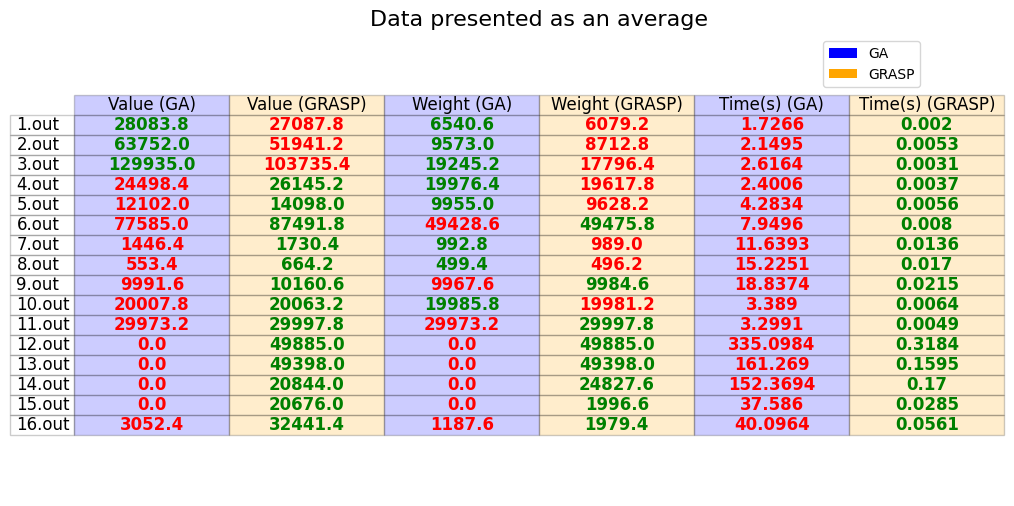
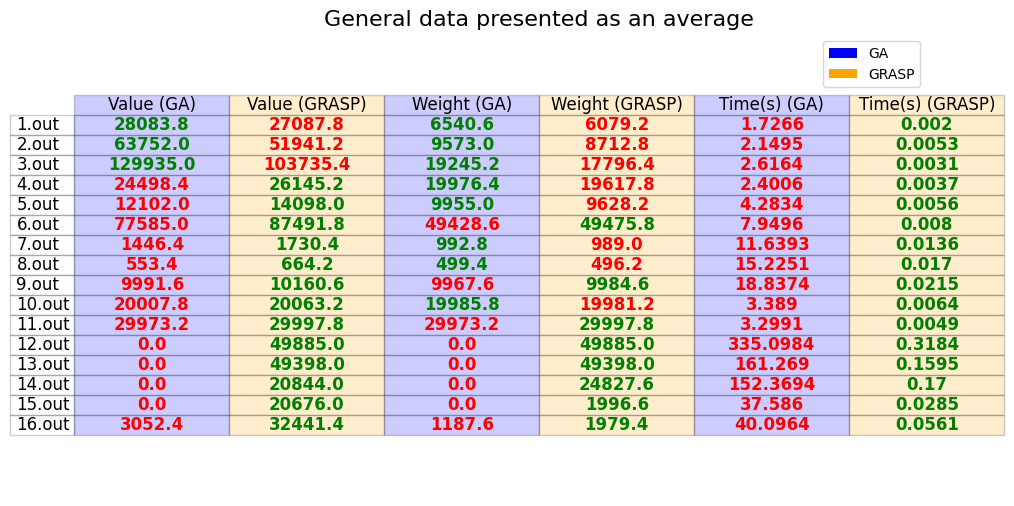
report - grafico weight x value

Changed region(s): [[0.3057, 0.0, 0.7643, 0.0593]]

diff --git a/report/main.py b/report/main.py
@@ -86,9 +86,51 @@ def generate_value_x_execution_time_graph(vet_file_names, vet_value_ga, vet_valu
     lines, labels = ax1.get_legend_handles_labels()
     lines2, labels2 = ax2.get_legend_handles_labels()
     ax1.legend(lines + lines2, labels + labels2, loc='upper left')
+    
+    plt.title("Value mean x Execution time(s) mean", fontsize=16)
 
     plt.tight_layout()
     plt.savefig('graph_value_x_time.png', bbox_inches='tight', pad_inches=0.1, transparent=True)
+    plt.show()
+
+def generate_weight_value_graph(vet_file_names, vet_weight_ga, vet_weight_std_ga, vet_weight_grasp, vet_weight_std_grasp, 
+                                          vet_value_ga, vet_value_grasp):
+    fig, ax1 = plt.subplots(figsize=(10, 6))
+
+    ga_bar_color = 'blue'
+    grasp_bar_color = 'orange'
+    ga_line_color = 'red'
+    grasp_line_color = 'green'
+
+    # splitting the bars
+    width = 0.35
+    x = np.arange(len(vet_file_names))
+    x1 = x - width/2
+    x2 = x + width/2
+
+    # bar graph for weights
+    ax1.bar(x1, vet_weight_ga, width=width, label='Weight mean - GA', alpha=0.7, color=ga_bar_color, yerr=vet_weight_std_ga, capsize=5)
+    ax1.bar(x2, vet_weight_grasp, width=width, label='Weight mean - GRASP', alpha=0.7, color=grasp_bar_color, yerr=vet_weight_std_grasp, capsize=5)
+
+    ax1.set_xlabel('Files')
+    ax1.set_ylabel('Weight mean')
+    ax1.set_xticks(x)
+    ax1.set_xticklabels(vet_file_names, rotation=90)
+
+    ax2 = ax1.twinx()
+    ax2.plot(x1, vet_value_ga, label='Value mean - GA', marker='o', linestyle='--', color=f'tab:{ga_line_color}')
+    ax2.plot(x2, vet_value_grasp, label='Value mean - GRASP', marker='o', linestyle='--', color=f'tab:{grasp_line_color}')
+    ax2.set_ylabel('Value mean')
+
+    # legends
+    lines, labels = ax1.get_legend_handles_labels()
+    lines2, labels2 = ax2.get_legend_handles_labels()
+    ax1.legend(lines + lines2, labels + labels2, loc='upper left')
+    
+    plt.title("Weight mean x Value mean", fontsize=16)
+
+    plt.tight_layout()
+    plt.savefig('graph_weight_x_value.png', bbox_inches='tight', pad_inches=0.1, transparent=True)
     plt.show()
 
 def generate_datatable(vet_file_names, vet_value_ga, vet_weight_ga, vet_execution_time_ga,
@@ -160,7 +202,7 @@ def generate_datatable(vet_file_names, vet_value_ga, vet_weight_ga, vet_executio
     table_data.set_fontsize(12)
     table_data.scale(1.2, 1.2)
 
-    plt.title("Data presented as an average", fontsize=16)
+    plt.title("General data presented as an average", fontsize=16)
 
     plt.savefig('dt_general.png', bbox_inches='tight', pad_inches=0.1, transparent=True)
     plt.show()
@@ -171,16 +213,20 @@ def generate_graphs(results_ga, results_grasp):
     vet_value_ga = [result['Value mean'] for result in results_ga]
     vet_value_std_ga = [result['Value std'] for result in results_ga]
     vet_weight_ga = [result['Weight mean'] for result in results_ga]
+    vet_weight_std_ga = [result['Weight std'] for result in results_ga]
     vet_execution_time_ga = [result['Execution time(s) mean'] for result in results_ga]
     vet_remaining_capacity_ga = [result['Remaining capacity mean'] for result in results_ga]
 
     vet_value_grasp = [result['Value mean'] for result in results_grasp]
     vet_value_std_grasp = [result['Value std'] for result in results_grasp]
     vet_weight_grasp = [result['Weight mean'] for result in results_grasp]
+    vet_weight_std_grasp = [result['Weight std'] for result in results_grasp]
     vet_execution_time_grasp = [result['Execution time(s) mean'] for result in results_grasp]
     vet_remaining_capacity_grasp = [result['Remaining capacity mean'] for result in results_grasp]
 
     generate_value_x_execution_time_graph(vet_file_names, vet_value_ga, vet_value_std_ga, vet_value_grasp, vet_value_std_grasp, vet_execution_time_ga, vet_execution_time_grasp)
+    
+    generate_weight_value_graph(vet_file_names, vet_weight_ga, vet_weight_std_ga, vet_weight_grasp, vet_weight_std_grasp, vet_value_ga, vet_value_grasp)
     
     generate_datatable(vet_file_names, vet_value_ga, vet_weight_ga, vet_execution_time_ga,
                        vet_value_grasp, vet_weight_grasp, vet_execution_time_grasp)
